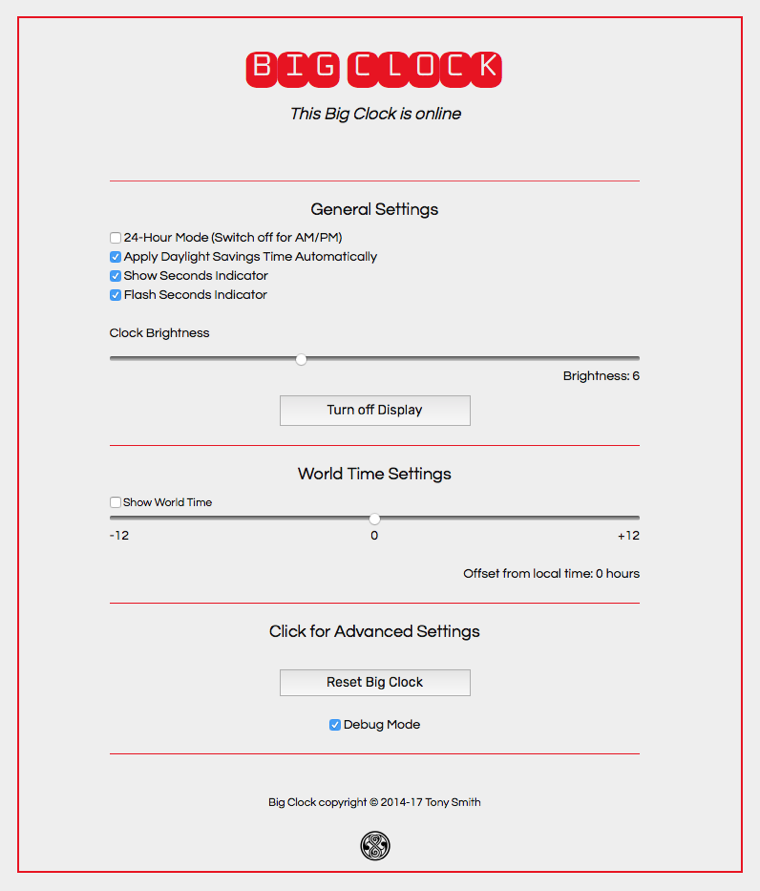
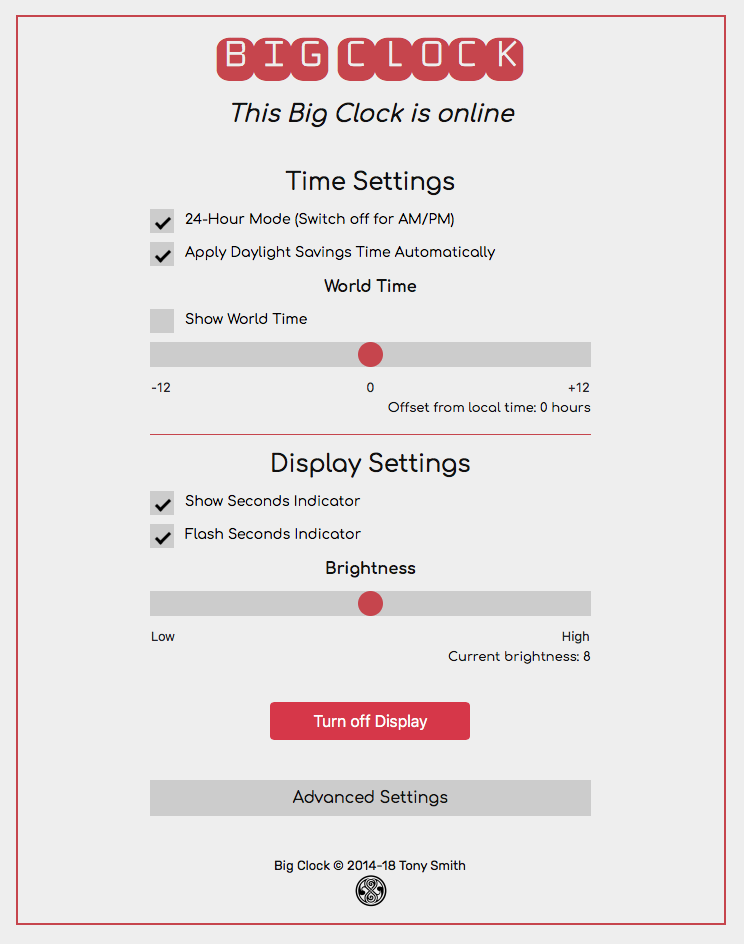
Add new UI image

Changed region(s): [[0.0309, 0.0, 0.9892, 1.0], [0.0, 0.0303, 0.0309, 0.9697], [0.5255, 0.303, 0.5565, 0.3333]]

diff --git a/README.md b/README.md
@@ -75,7 +75,7 @@ BigClock is is controlled by a web app which you access at the its agent URL.
 
 ## Release Notes ##
 
-- 3.3 *June 8, 2018*
+- 2.3 *June 13, 2018*
     - Update to [Bootstrap 4.1.1](https://getbootstrap.com/)
         - Update Web UI based on Bootstrap
         - Separate out Web UI into own file for clarity
